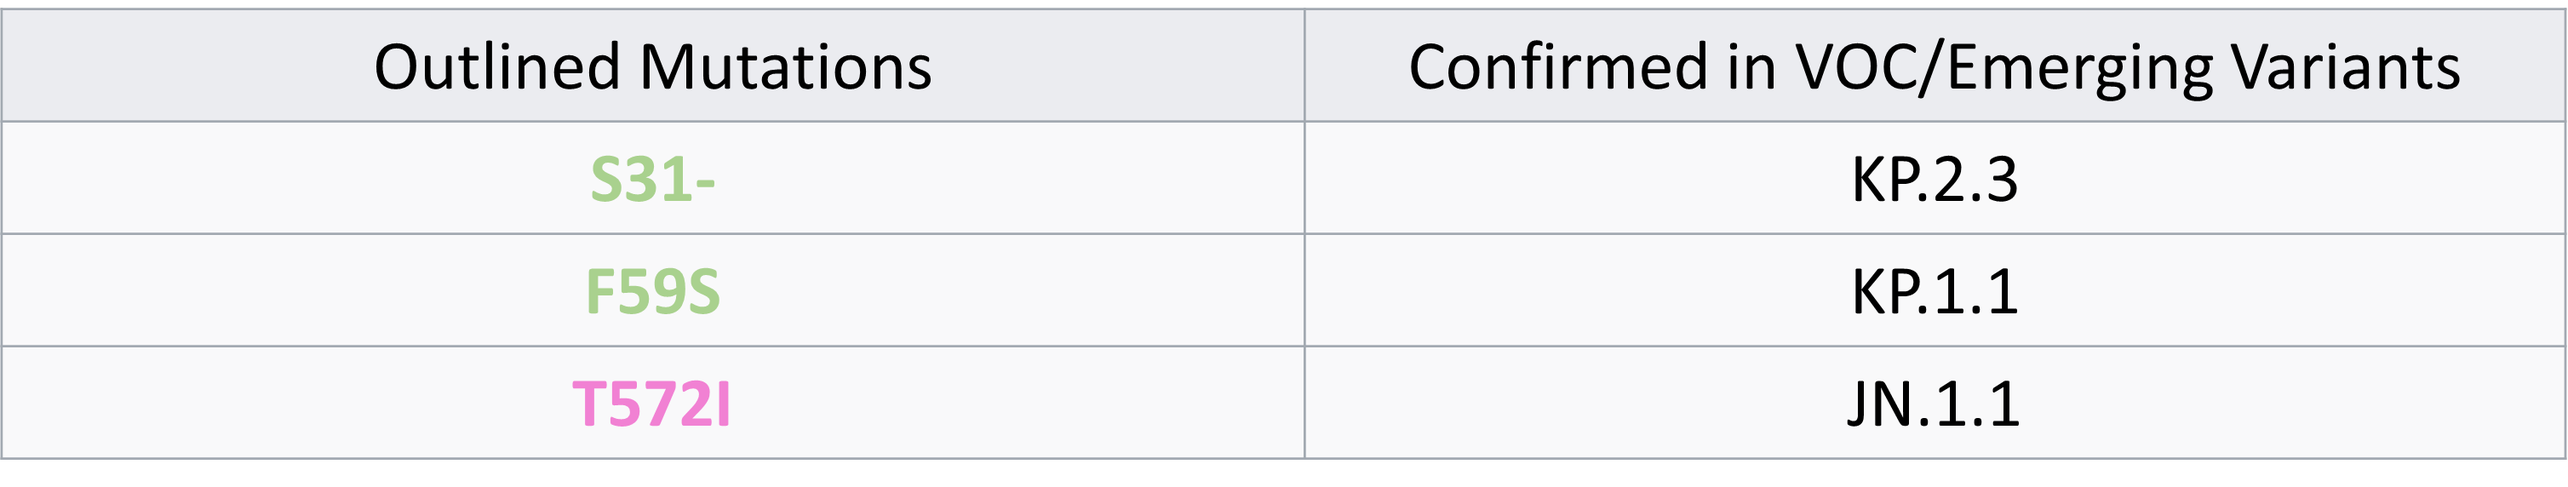
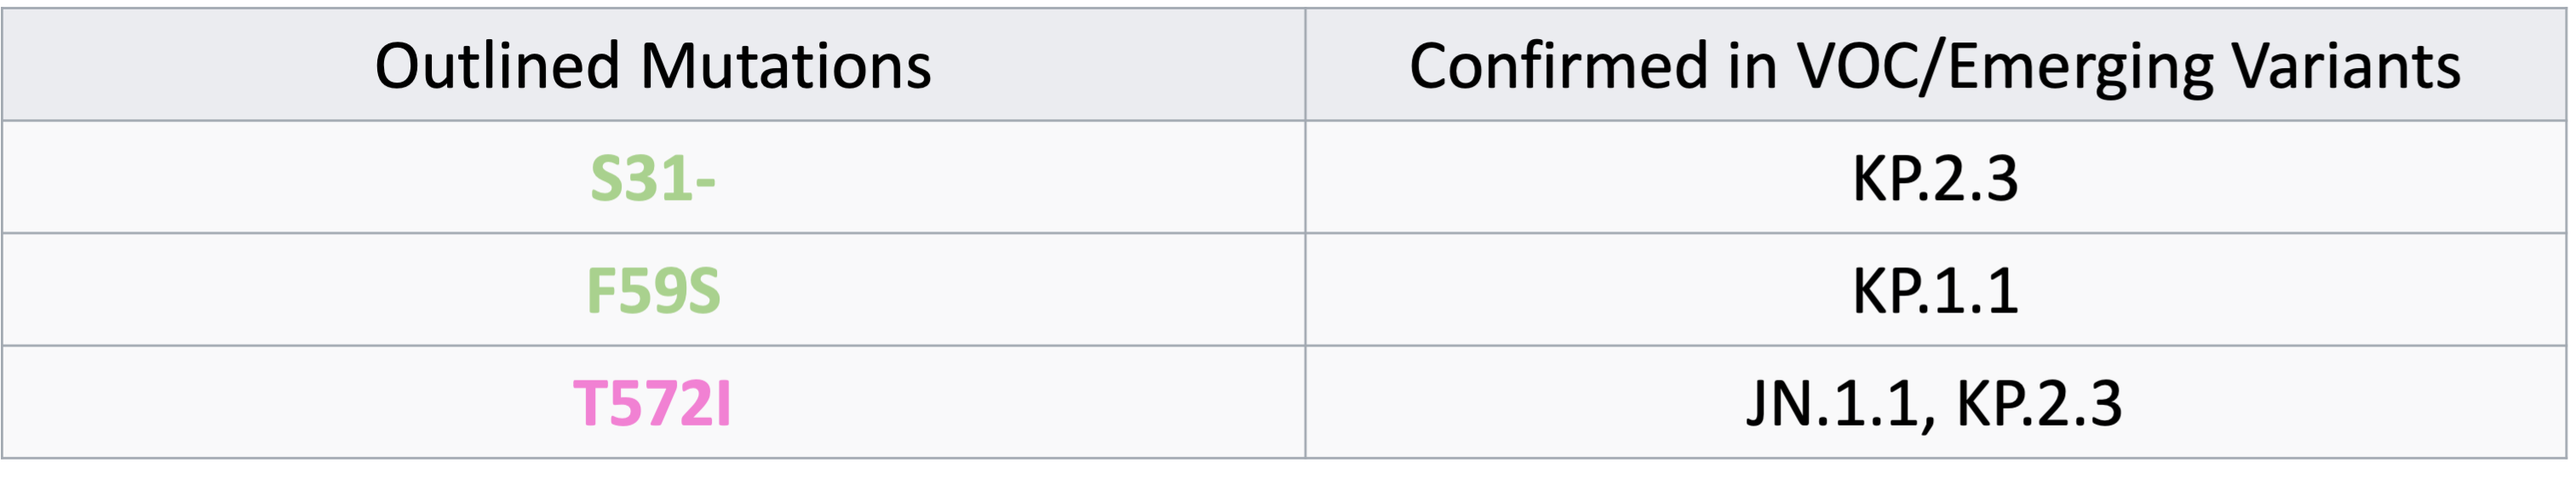
Updated leading mutations and variants information of 2024-07

diff --git a/_pages/Updates.md b/_pages/Updates.md
@@ -63,7 +63,7 @@ $(document).ready(function(){
   {% include figure.html path="assets/img/update_2407/2024-07.png" title="example image" class="img-fluid rounded z-depth-1" %}
   <br>
   <br>
-  <strong>2024.06.29-2024.07.05</strong>
+  <strong>2024.06.29-2024.07.26</strong>
   <hr>
   {% include figure.html path="assets/img/update_2407/confirmed_202407.png" title="example image" class="img-fluid rounded z-depth-1" %}
   <br>

diff --git a/_news/announcement_2.md b/_news/announcement_2.md
@@ -1,9 +1,9 @@
 ---
 layout: post
-date: 2024-07-04 00:00:00
+date: 2024-07-26 00:00:00
 inline: true
 related_posts: false
 ---
 
-<a href="{{ '/Updates/' | relative_url }}" style="color: inherit;">Outlined mutations in 2024.07 are published.</a>
+<a href="{{ '/Updates/' | relative_url }}" style="color: inherit;">Outlined mutations in 2024.07 are updated.</a>
 

diff --git a/_news/announcement_3.md b/_news/announcement_3.md
@@ -1,6 +1,6 @@
 ---
 layout: post
-date: 2024-07-05 00:00:01
+date: 2024-07-26 00:00:01
 inline: true
 related_posts: false
 ---
